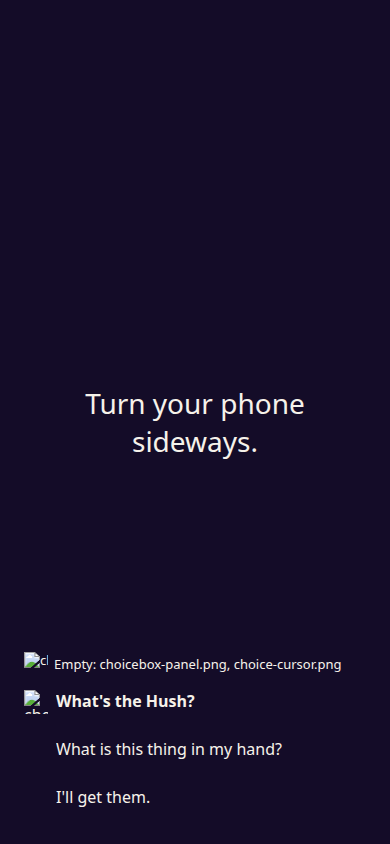
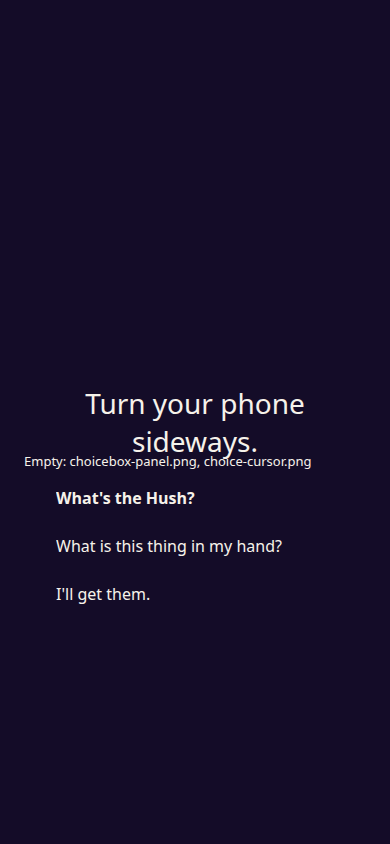
Keep ChoiceBox as the only choice UI and clear of Maren's line.
enterChoice hands the choices to ChoiceBox and skips the old buttons. The box sits above the speaker text, and an empty slot image is not shown.

diff --git a/js/ui/choice-box.js b/js/ui/choice-box.js
@@ -23,7 +23,13 @@ SF.ChoiceBox = {
   _live: null,
   _css: "",
 
-  layout: function (vw, vh, count) {
+  hits: function (a, b) {
+    if (!a || !b) return false;
+    if (!(a.w > 0) || !(a.h > 0) || !(b.w > 0) || !(b.h > 0)) return false;
+    return a.x < b.x + b.w && a.x + a.w > b.x && a.y < b.y + b.h && a.y + a.h > b.y;
+  },
+
+  layout: function (vw, vh, count, text) {
     var n = count | 0;
     if (n < 1) n = 1;
     vw = vw > 0 ? vw : 0;
@@ -36,9 +42,27 @@ SF.ChoiceBox = {
     if (!(boxH > 0)) boxH = 1;
     var boxX = Math.floor((vw - boxW) / 2);
     if (boxX < 0) boxX = 0;
-    if (boxX + boxW > vw) boxW = Math.max(1, vw - boxX);
     var boxY = vh - SPEC.margin - boxH;
+    if (text && text.w > 0 && text.h > 0) {
+      var aboveY = Math.floor(text.y - SPEC.margin - boxH);
+      var above = { x: boxX, y: aboveY, w: boxW, h: boxH };
+      var rightX = Math.ceil(text.x + text.w + SPEC.margin);
+      var rightW = Math.min(SPEC.maxW, vw - SPEC.margin - rightX);
+      var rightY = Math.max(SPEC.margin, Math.min(Math.floor(text.y), vh - SPEC.margin - boxH));
+      var right = { x: rightX, y: rightY, w: rightW, h: boxH };
+      if (aboveY >= SPEC.margin && !SF.ChoiceBox.hits(above, text)) {
+        boxY = aboveY;
+      } else if (rightW >= SPEC.targetH && !SF.ChoiceBox.hits(right, text)) {
+        boxX = right.x;
+        boxY = right.y;
+        boxW = right.w;
+      } else if (aboveY >= 0) {
+        boxY = aboveY;
+      }
+    }
+    if (boxX < 0) boxX = 0;
     if (boxY < 0) boxY = 0;
+    if (boxX + boxW > vw) boxW = Math.max(1, vw - boxX);
     if (boxY + boxH > vh) boxH = Math.max(1, vh - boxY);
     var innerX = boxX + SPEC.inset;
     var innerW = boxW - SPEC.inset * 2;
@@ -146,10 +170,34 @@ function applyFrame(root, on) {
   root.style.borderImageSource = "none";
 }
 
+function speakerTextRect() {
+  if (typeof document === "undefined" || !document.getElementById) return null;
+  var ids = ["who", "line"];
+  var box = null;
+  var i;
+  for (i = 0; i < ids.length; i++) {
+    var el = document.getElementById(ids[i]);
+    if (!el || el.hidden || !el.getBoundingClientRect) continue;
+    var r = el.getBoundingClientRect();
+    if (!(r.width > 0) || !(r.height > 0)) continue;
+    var part = { x: r.left, y: r.top, w: r.width, h: r.height };
+    if (!box) {
+      box = part;
+      continue;
+    }
+    var x1 = Math.min(box.x, part.x);
+    var y1 = Math.min(box.y, part.y);
+    var x2 = Math.max(box.x + box.w, part.x + part.w);
+    var y2 = Math.max(box.y + box.h, part.y + part.h);
+    box = { x: x1, y: y1, w: x2 - x1, h: y2 - y1 };
+  }
+  return box;
+}
+
 function place(session) {
   var vw = window.innerWidth || 0;
   var vh = window.innerHeight || 0;
-  var laid = SF.ChoiceBox.layout(vw, vh, session.choices.length);
+  var laid = SF.ChoiceBox.layout(vw, vh, session.choices.length, speakerTextRect());
   session.root.style.left = laid.box.x + "px";
   session.root.style.top = laid.box.y + "px";
   session.root.style.width = laid.box.w + "px";
@@ -176,7 +224,7 @@ function paintSelection(session) {
     session.buttons[i].classList.toggle("is-on", on);
     if (on) {
       session.buttons[i].setAttribute("aria-current", "true");
-      session.marks[i].appendChild(session.cursor);
+      if (session.cursorOk && session.cursor) session.marks[i].appendChild(session.cursor);
     } else {
       session.buttons[i].removeAttribute("aria-current");
     }
@@ -208,17 +256,14 @@ function openBox(list, onPick) {
 
   var status = document.createElement("p");
   status.className = "sf-choicebox-status";
-  var panel = document.createElement("img");
-  panel.className = "sf-choicebox-panel";
-  panel.alt = "choicebox-panel.png missing";
   var note = document.createElement("span");
   note.className = "sf-choicebox-note";
-  status.appendChild(panel);
   status.appendChild(note);
 
+  var panel = document.createElement("img");
+  panel.alt = "";
   var cursor = document.createElement("img");
-  cursor.className = "sf-choice-cursor";
-  cursor.alt = "choice-cursor.png missing";
+  cursor.alt = "";
 
   var buttons = [];
   var marks = [];
@@ -326,15 +371,28 @@ function openBox(list, onPick) {
   refreshNote(session);
   document.addEventListener("keydown", onKey);
   window.addEventListener("resize", onResize);
+  if (typeof requestAnimationFrame === "function") {
+    requestAnimationFrame(function () {
+      if (!session.settled) place(session);
+    });
+  }
 
   watchImage(panel, function (ok) {
     if (session.settled) return;
     session.panelOk = !!ok;
+    if (ok) {
+      panel.className = "sf-choicebox-panel";
+      status.insertBefore(panel, note);
+    }
     refreshNote(session);
   });
   watchImage(cursor, function (ok) {
     if (session.settled) return;
     session.cursorOk = !!ok;
+    if (ok) {
+      cursor.className = "sf-choice-cursor";
+      paintSelection(session);
+    }
     refreshNote(session);
   });
   panel.src = SPEC.panel;

diff --git a/js/dialogue.js b/js/dialogue.js
@@ -332,8 +332,9 @@ function enterChoice() {
   d.choices = visible;
   d.done = true;
   d.lock = 0.08;
-  // Single attach point. ChoiceBox returns the picked id, then removes itself.
-  hookChoiceBox(visible);
+  // One hand-off. When ChoiceBox is loaded it owns the choices, and the
+  // old choice buttons are not painted. Speaker, line, and portrait stay.
+  d.choiceBox = hookChoiceBox(visible);
 }
 
 function choicePickId(choice, index) {
@@ -342,8 +343,8 @@ function choicePickId(choice, index) {
 }
 
 function hookChoiceBox(visible) {
-  if (!SF.ChoiceBox || typeof SF.ChoiceBox.open !== "function") return;
-  if (typeof document === "undefined" || !document.createElement) return;
+  if (!SF.ChoiceBox || typeof SF.ChoiceBox.open !== "function") return false;
+  if (typeof document === "undefined" || !document.createElement) return false;
   var choices = [];
   var i;
   for (i = 0; i < visible.length; i++) {
@@ -352,22 +353,27 @@ function hookChoiceBox(visible) {
       text: visible[i] && visible[i].text != null ? String(visible[i].text) : ""
     });
   }
-  SF.ChoiceBox.open({
-    choices: choices,
-    onPick: function (id) {
-      var s = SF.state;
-      var d = s && s.dialogue;
-      if (!d || d.phase !== "choice" || !d.choices) return;
-      var idx = -1;
-      var j;
-      for (j = 0; j < d.choices.length; j++) {
-        if (choicePickId(d.choices[j], j) === id) idx = j;
+  try {
+    SF.ChoiceBox.open({
+      choices: choices,
+      onPick: function (id) {
+        var s = SF.state;
+        var d = s && s.dialogue;
+        if (!d || d.phase !== "choice" || !d.choices) return;
+        var idx = -1;
+        var j;
+        for (j = 0; j < d.choices.length; j++) {
+          if (choicePickId(d.choices[j], j) === id) idx = j;
+        }
+        if (idx < 0) return;
+        d.lock = 0;
+        SF.chooseDialogue(idx);
       }
-      if (idx < 0) return;
-      d.lock = 0;
-      SF.chooseDialogue(idx);
-    }
-  });
+    });
+  } catch (err) {
+    return false;
+  }
+  return true;
 }
 
 SF.startDialogue = function (id) {
@@ -909,13 +915,14 @@ SF.paintDialogue = function () {
   renderLine(line, text);
   var typing = d.phase !== "choice" && !d.done && !linesInstant();
   line.classList.toggle("typing", typing);
-  var choiceKey = d.id + "|" + (d.phase === "choice" ? d.choices.map(function (c) { return c.text; }).join("|") : "");
+  var handoff = !!d.choiceBox;
+  var choiceKey = d.id + "|" + (d.phase === "choice" && !handoff ? d.choices.map(function (c) { return c.text; }).join("|") : "");
   if (box.dataset.key !== choiceKey) {
     box.dataset.key = choiceKey;
     box.dataset.hi = "";
     box.textContent = "";
     d.choiceIndex = 0;
-    if (d.phase === "choice") {
+    if (d.phase === "choice" && !handoff) {
       d.choices.forEach(function (c, i) {
         var b = document.createElement("button");
         b.type = "button";
